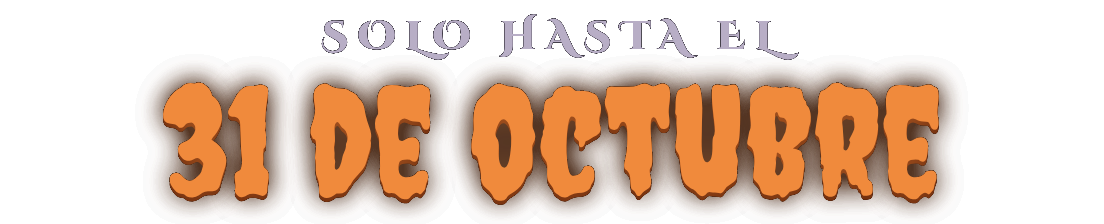
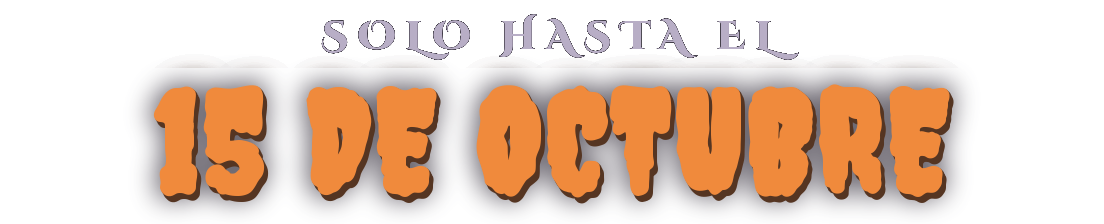
Halloween: hero recortado, CTAs temáticos y fecha límite 15 de octubre
Claude-Session: https://claude.ai/code/session_01MqDAfXyhHJKqD1usqaKAXc

Changed region(s): [[0.1232, 0.3125, 0.8931, 0.9375]]

diff --git a/assets/halloween/email.html b/assets/halloween/email.html
@@ -127,7 +127,7 @@ u + #body a { color:inherit; text-decoration:none; }
 </tr></table>
 </td></tr>
 <tr><td style="padding:16px 0 0 0; line-height:0; font-size:0;">
-<a href="https://www.elcorteingles.es" style="display:block;"><img src="eci-hero.gif" width="600" height="410" class="fluid" alt="Ilustración animada: un castillo encantado en la colina bajo la luna llena, con la bandera de El Corte Inglés iluminada con luces LED, una bruja volando, murciélagos y una calabaza gigante encendida" style="width:100%; max-width:600px; height:auto; display:block; background-color:#151536; font-family:'Manrope',-apple-system,'Segoe UI',Helvetica,Arial,sans-serif; font-size:14px; line-height:20px; color:#F3EBDD;"></a>
+<a href="https://www.elcorteingles.es" style="display:block;"><img src="eci-hero-recorte.gif?v=1" width="600" height="292" class="fluid" alt="Ilustración animada: un castillo encantado en la colina bajo la luna llena, con la bandera de El Corte Inglés iluminada con luces LED, una bruja volando, murciélagos y una calabaza gigante encendida" style="width:100%; max-width:600px; height:auto; display:block; background-color:#151536; font-family:'Manrope',-apple-system,'Segoe UI',Helvetica,Arial,sans-serif; font-size:14px; line-height:20px; color:#F3EBDD;"></a>
 </td></tr>
 <tr><td class="px" align="center" style="padding:8px 24px 0 24px;">
 <img class="a1 fluid" src="t-hero.png?v=4" width="552" height="123" alt="Halloween ha llegado a El Corte Inglés" style="width:100%; max-width:552px; height:auto; display:block; font-family:Georgia,serif; font-size:30px; line-height:36px; font-weight:bold; color:#F08A3C; text-align:center;">
@@ -150,8 +150,8 @@ u + #body a { color:inherit; text-decoration:none; }
 <p style="margin:0 0 10px 0; font-family:'Manrope',-apple-system,'Segoe UI',Helvetica,Arial,sans-serif; font-size:26px; line-height:31px; font-weight:800; letter-spacing:-.6px; color:#F3EBDD;">Bote de vidrio bruja</p>
 <p style="margin:0 0 18px 0; font-family:'Manrope',-apple-system,'Segoe UI',Helvetica,Arial,sans-serif; font-size:15px; line-height:23px; color:#D9CFE6;">Bote de vidrio decorado con estrellas y fantasmas y una tapa con forma de sombrero de bruja. Para llenarlo de caramelos o lucirlo en la estantería.</p>
 <p style="margin:0 0 18px 0; font-family:'Manrope',-apple-system,'Segoe UI',Helvetica,Arial,sans-serif; font-size:26px; line-height:32px; font-weight:800; color:#F3EBDD;">12,90 €</p>
-<!--[if mso]><v:roundrect xmlns:v="urn:schemas-microsoft-com:vml" xmlns:w="urn:schemas-microsoft-com:office:word" href="https://www.elcorteingles.es/hogar/A201385088-2102687446992-pr-bote-de-vidrio-bruja-halloween-multicolor/" style="height:52px; v-text-anchor:middle; width:170px;" arcsize="50%" stroke="f" fillcolor="#F3EBDD"><w:anchorlock/><center style="color:#16141A; font-family:Arial,sans-serif; font-size:16px; font-weight:bold;">Ver producto</center></v:roundrect><![endif]-->
-<!--[if !mso]><!--><a href="https://www.elcorteingles.es/hogar/A201385088-2102687446992-pr-bote-de-vidrio-bruja-halloween-multicolor/" class="cta-a" style="display:inline-block; background-color:#F3EBDD; color:#16141A; font-family:'Manrope',-apple-system,'Segoe UI',Helvetica,Arial,sans-serif; font-size:16px; line-height:52px; font-weight:700; text-align:center; padding:0 32px; border-radius:999px; white-space:nowrap;">Ver producto</a><!--<![endif]-->
+<!--[if mso]><v:roundrect xmlns:v="urn:schemas-microsoft-com:vml" xmlns:w="urn:schemas-microsoft-com:office:word" href="https://www.elcorteingles.es/hogar/A201385088-2102687446992-pr-bote-de-vidrio-bruja-halloween-multicolor/" style="height:52px; v-text-anchor:middle; width:170px;" arcsize="50%" stroke="f" fillcolor="#F3EBDD"><w:anchorlock/><center style="color:#16141A; font-family:Arial,sans-serif; font-size:16px; font-weight:bold;">Hechízate</center></v:roundrect><![endif]-->
+<!--[if !mso]><!--><a href="https://www.elcorteingles.es/hogar/A201385088-2102687446992-pr-bote-de-vidrio-bruja-halloween-multicolor/" class="cta-a" style="display:inline-block; background-color:#F3EBDD; color:#16141A; font-family:'Manrope',-apple-system,'Segoe UI',Helvetica,Arial,sans-serif; font-size:16px; line-height:52px; font-weight:700; text-align:center; padding:0 32px; border-radius:999px; white-space:nowrap;">Hechízate</a><!--<![endif]-->
 </td>
 </tr></table>
 </td></tr>
@@ -168,7 +168,7 @@ u + #body a { color:inherit; text-decoration:none; }
 <table role="presentation" cellpadding="0" cellspacing="0" border="0"><tr><td style="background-color:#3A2850; border-radius:999px; padding:4px 10px; font-family:'Manrope',-apple-system,'Segoe UI',Helvetica,Arial,sans-serif; font-size:11px; line-height:14px; font-weight:700; color:#F3EBDD;">Novedad</td></tr></table>
 <p class="t-cream" style="margin:12px 0 4px 0; font-family:'Manrope',-apple-system,'Segoe UI',Helvetica,Arial,sans-serif; font-size:16px; line-height:22px; font-weight:600; color:#F3EBDD;">LEGO Camioneta Jack-o'-Lantern</p>
 <p style="margin:0 0 16px 0; font-family:'Manrope',-apple-system,'Segoe UI',Helvetica,Arial,sans-serif; font-size:18px; line-height:24px; font-weight:700; color:#F08A3C;">14,99 €</p>
-<a href="https://www.elcorteingles.es/juguetes/A201013264-juego-de-construccion-jack-o-lantern-pickup-truck-lego-seasons-and-occasion-40822/" class="btn-a t-cream" style="display:inline-block; border:1px solid #F08A3C; border-radius:999px; padding:9px 20px; font-family:'Manrope',-apple-system,'Segoe UI',Helvetica,Arial,sans-serif; font-size:14px; line-height:18px; font-weight:700; color:#F3EBDD;">Comprar</a>
+<a href="https://www.elcorteingles.es/juguetes/A201013264-juego-de-construccion-jack-o-lantern-pickup-truck-lego-seasons-and-occasion-40822/" class="btn-a t-cream" style="display:inline-block; border:1px solid #F08A3C; border-radius:999px; padding:9px 20px; font-family:'Manrope',-apple-system,'Segoe UI',Helvetica,Arial,sans-serif; font-size:14px; line-height:18px; font-weight:700; color:#F3EBDD;">Truco o trato</a>
 </td></tr></table>
 </div></div>
 <!--[if mso]></td><td width="284" valign="top"><![endif]-->
@@ -182,7 +182,7 @@ u + #body a { color:inherit; text-decoration:none; }
 <table role="presentation" cellpadding="0" cellspacing="0" border="0"><tr><td style="background-color:#F08A3C; border-radius:999px; padding:4px 10px; font-family:'Manrope',-apple-system,'Segoe UI',Helvetica,Arial,sans-serif; font-size:11px; line-height:14px; font-weight:700; color:#16141A;">-30%</td></tr></table>
 <p class="t-cream" style="margin:12px 0 4px 0; font-family:'Manrope',-apple-system,'Segoe UI',Helvetica,Arial,sans-serif; font-size:16px; line-height:22px; font-weight:600; color:#F3EBDD;">Halloween Eau de Toilette</p>
 <p style="margin:0 0 6px 0; font-family:'Manrope',-apple-system,'Segoe UI',Helvetica,Arial,sans-serif; font-size:18px; line-height:24px; font-weight:700; color:#F08A3C;">26,95 € <span style="font-size:14px; font-weight:500; color:#8F86A0; text-decoration:line-through;">38,50 €</span></p><p style="margin:0 0 16px 0; font-family:'Manrope',-apple-system,'Segoe UI',Helvetica,Arial,sans-serif; font-size:12px; line-height:17px; color:#B8AEC6;">30 ml · <strong style="color:#F08A3C;">10% extra</strong> con el cupón de abajo</p>
-<a href="https://www.elcorteingles.es/perfumeria/A16575866-8431754340616-pr-eau-de-toilette-halloween-halloween-perfumes-30-ml/" class="btn-a t-cream" style="display:inline-block; border:1px solid #F08A3C; border-radius:999px; padding:9px 20px; font-family:'Manrope',-apple-system,'Segoe UI',Helvetica,Arial,sans-serif; font-size:14px; line-height:18px; font-weight:700; color:#F3EBDD;">Comprar</a>
+<a href="https://www.elcorteingles.es/perfumeria/A16575866-8431754340616-pr-eau-de-toilette-halloween-halloween-perfumes-30-ml/" class="btn-a t-cream" style="display:inline-block; border:1px solid #F08A3C; border-radius:999px; padding:9px 20px; font-family:'Manrope',-apple-system,'Segoe UI',Helvetica,Arial,sans-serif; font-size:14px; line-height:18px; font-weight:700; color:#F3EBDD;">Truco o trato</a>
 </td></tr></table>
 </div></div>
 <!--[if mso]></td></tr></table><![endif]-->
@@ -197,7 +197,7 @@ u + #body a { color:inherit; text-decoration:none; }
 <table role="presentation" cellpadding="0" cellspacing="0" border="0"><tr><td style="background-color:#3A2850; border-radius:999px; padding:4px 10px; font-family:'Manrope',-apple-system,'Segoe UI',Helvetica,Arial,sans-serif; font-size:11px; line-height:14px; font-weight:700; color:#F3EBDD;">Novedad</td></tr></table>
 <p class="t-cream" style="margin:12px 0 4px 0; font-family:'Manrope',-apple-system,'Segoe UI',Helvetica,Arial,sans-serif; font-size:16px; line-height:22px; font-weight:600; color:#F3EBDD;">Playmobil Pareja de vampiros</p>
 <p style="margin:0 0 16px 0; font-family:'Manrope',-apple-system,'Segoe UI',Helvetica,Arial,sans-serif; font-size:18px; line-height:24px; font-weight:700; color:#F08A3C;">15,87 €</p>
-<a href="https://www.elcorteingles.es/juguetes/A202084232-pareja-de-vampiros-playmobil-halloween/" class="btn-a t-cream" style="display:inline-block; border:1px solid #F08A3C; border-radius:999px; padding:9px 20px; font-family:'Manrope',-apple-system,'Segoe UI',Helvetica,Arial,sans-serif; font-size:14px; line-height:18px; font-weight:700; color:#F3EBDD;">Comprar</a>
+<a href="https://www.elcorteingles.es/juguetes/A202084232-pareja-de-vampiros-playmobil-halloween/" class="btn-a t-cream" style="display:inline-block; border:1px solid #F08A3C; border-radius:999px; padding:9px 20px; font-family:'Manrope',-apple-system,'Segoe UI',Helvetica,Arial,sans-serif; font-size:14px; line-height:18px; font-weight:700; color:#F3EBDD;">Truco o trato</a>
 </td></tr></table>
 </div></div>
 <!--[if mso]></td><td width="284" valign="top"><![endif]-->
@@ -211,7 +211,7 @@ u + #body a { color:inherit; text-decoration:none; }
 <table role="presentation" cellpadding="0" cellspacing="0" border="0"><tr><td style="background-color:#F08A3C; border-radius:999px; padding:4px 10px; font-family:'Manrope',-apple-system,'Segoe UI',Helvetica,Arial,sans-serif; font-size:11px; line-height:14px; font-weight:700; color:#16141A;">-25%</td></tr></table>
 <p class="t-cream" style="margin:12px 0 4px 0; font-family:'Manrope',-apple-system,'Segoe UI',Helvetica,Arial,sans-serif; font-size:16px; line-height:22px; font-weight:600; color:#F3EBDD;">Playmobil Fantasma de Halloween</p>
 <p style="margin:0 0 16px 0; font-family:'Manrope',-apple-system,'Segoe UI',Helvetica,Arial,sans-serif; font-size:18px; line-height:24px; font-weight:700; color:#F08A3C;">4,50 € <span style="font-size:14px; font-weight:500; color:#8F86A0; text-decoration:line-through;">6,00 €</span></p>
-<a href="https://www.elcorteingles.es/juguetes/A202084233-fantasma-playmobil-halloween/" class="btn-a t-cream" style="display:inline-block; border:1px solid #F08A3C; border-radius:999px; padding:9px 20px; font-family:'Manrope',-apple-system,'Segoe UI',Helvetica,Arial,sans-serif; font-size:14px; line-height:18px; font-weight:700; color:#F3EBDD;">Comprar</a>
+<a href="https://www.elcorteingles.es/juguetes/A202084233-fantasma-playmobil-halloween/" class="btn-a t-cream" style="display:inline-block; border:1px solid #F08A3C; border-radius:999px; padding:9px 20px; font-family:'Manrope',-apple-system,'Segoe UI',Helvetica,Arial,sans-serif; font-size:14px; line-height:18px; font-weight:700; color:#F3EBDD;">Truco o trato</a>
 </td></tr></table>
 </div></div>
 <!--[if mso]></td></tr></table><![endif]-->
@@ -226,7 +226,7 @@ u + #body a { color:inherit; text-decoration:none; }
 <table role="presentation" cellpadding="0" cellspacing="0" border="0"><tr><td style="background-color:#3A2850; border-radius:999px; padding:4px 10px; font-family:'Manrope',-apple-system,'Segoe UI',Helvetica,Arial,sans-serif; font-size:11px; line-height:14px; font-weight:700; color:#F3EBDD;">Novedad</td></tr></table>
 <p class="t-cream" style="margin:12px 0 4px 0; font-family:'Manrope',-apple-system,'Segoe UI',Helvetica,Arial,sans-serif; font-size:16px; line-height:22px; font-weight:600; color:#F3EBDD;">Bote de vidrio calabaza</p>
 <p style="margin:0 0 16px 0; font-family:'Manrope',-apple-system,'Segoe UI',Helvetica,Arial,sans-serif; font-size:18px; line-height:24px; font-weight:700; color:#F08A3C;">10,99 €</p>
-<a href="https://www.elcorteingles.es/hogar/A201385087-2102687446985-pr-bote-de-vidrio-calabaza-halloween-naranja/" class="btn-a t-cream" style="display:inline-block; border:1px solid #F08A3C; border-radius:999px; padding:9px 20px; font-family:'Manrope',-apple-system,'Segoe UI',Helvetica,Arial,sans-serif; font-size:14px; line-height:18px; font-weight:700; color:#F3EBDD;">Comprar</a>
+<a href="https://www.elcorteingles.es/hogar/A201385087-2102687446985-pr-bote-de-vidrio-calabaza-halloween-naranja/" class="btn-a t-cream" style="display:inline-block; border:1px solid #F08A3C; border-radius:999px; padding:9px 20px; font-family:'Manrope',-apple-system,'Segoe UI',Helvetica,Arial,sans-serif; font-size:14px; line-height:18px; font-weight:700; color:#F3EBDD;">Truco o trato</a>
 </td></tr></table>
 </div></div>
 <!--[if mso]></td><td width="284" valign="top"><![endif]-->
@@ -240,19 +240,19 @@ u + #body a { color:inherit; text-decoration:none; }
 <table role="presentation" cellpadding="0" cellspacing="0" border="0"><tr><td style="background-color:#3A2850; border-radius:999px; padding:4px 10px; font-family:'Manrope',-apple-system,'Segoe UI',Helvetica,Arial,sans-serif; font-size:11px; line-height:14px; font-weight:700; color:#F3EBDD;">Novedad</td></tr></table>
 <p class="t-cream" style="margin:12px 0 4px 0; font-family:'Manrope',-apple-system,'Segoe UI',Helvetica,Arial,sans-serif; font-size:16px; line-height:22px; font-weight:600; color:#F3EBDD;">Bote de cerámica calabaza</p>
 <p style="margin:0 0 6px 0; font-family:'Manrope',-apple-system,'Segoe UI',Helvetica,Arial,sans-serif; font-size:18px; line-height:24px; font-weight:700; color:#F08A3C;">desde 26,95 €</p><p style="margin:0 0 16px 0; font-family:'Manrope',-apple-system,'Segoe UI',Helvetica,Arial,sans-serif; font-size:12px; line-height:17px; color:#B8AEC6;">2 tamaños: 20,5 cm · 26,95 €<br>25,5 cm · 29,95 €</p>
-<a href="https://www.elcorteingles.es/hogar/A201384929-2102687446862-pr-bote-de-ceramica-calabaza-halloween-beige/" class="btn-a t-cream" style="display:inline-block; border:1px solid #F08A3C; border-radius:999px; padding:9px 20px; font-family:'Manrope',-apple-system,'Segoe UI',Helvetica,Arial,sans-serif; font-size:14px; line-height:18px; font-weight:700; color:#F3EBDD;">Comprar</a>
+<a href="https://www.elcorteingles.es/hogar/A201384929-2102687446862-pr-bote-de-ceramica-calabaza-halloween-beige/" class="btn-a t-cream" style="display:inline-block; border:1px solid #F08A3C; border-radius:999px; padding:9px 20px; font-family:'Manrope',-apple-system,'Segoe UI',Helvetica,Arial,sans-serif; font-size:14px; line-height:18px; font-weight:700; color:#F3EBDD;">Truco o trato</a>
 </td></tr></table>
 </div></div>
 <!--[if mso]></td></tr></table><![endif]-->
 </td></tr>
 <tr><td class="px" style="padding:44px 24px 6px 24px;"><img class="fluid" src="t-disfraces.png?v=4" width="552" height="59" alt="Elige tu disfraz" style="width:100%; max-width:552px; height:auto; display:block; font-family:Georgia,serif; font-size:28px; font-weight:bold; color:#F08A3C;"></td></tr>
-<tr><td class="px" style="padding:0 24px 0 24px;"><p class="t-mist" style="margin:0 0 14px 0; font-family:'Manrope',-apple-system,'Segoe UI',Helvetica,Arial,sans-serif; font-size:15px; line-height:23px; color:#B8AEC6;">Toca una pegatina para ver el producto.</p></td></tr>
+<tr><td class="px" style="padding:0 24px 0 24px;"><p class="t-mist" style="margin:0 0 14px 0; font-family:'Manrope',-apple-system,'Segoe UI',Helvetica,Arial,sans-serif; font-size:15px; line-height:23px; color:#B8AEC6;">Transfórmate en una leyenda</p></td></tr>
 <tr><td class="px" style="padding:0 24px;">
 <table role="presentation" width="100%" cellpadding="0" cellspacing="0" border="0" style="background-color:#221b33; border-radius:20px; border:2px dashed #3d3354;"><tr><td align="center" style="padding:16px 4px 8px 4px; font-size:0; text-align:center;">
 <div class="stk-col" style="display:inline-block; width:100%; max-width:132px; vertical-align:top;">
 <a class="stk" href="https://www.elcorteingles.es/hogar/A201385088-2102687446992-pr-bote-de-vidrio-bruja-halloween-multicolor/" style="display:block; padding:6px 4px 14px 4px; text-decoration:none;"><img src="pegatina-bote.png?v=3" width="124" height="141" alt="Pegatina del bote de cristal con tapa de sombrero de bruja" style="width:100%; max-width:124px; height:auto; display:block; margin:0 auto; font-family:'Manrope',-apple-system,'Segoe UI',Helvetica,Arial,sans-serif; font-size:13px; color:#B8AEC6;">
 <span style="display:block; margin-top:6px; font-family:'Manrope',-apple-system,'Segoe UI',Helvetica,Arial,sans-serif; font-size:14px; line-height:19px; font-weight:700; color:#F3EBDD; text-align:center;">Bote de bruja</span>
-<span style="display:block; font-family:'Manrope',-apple-system,'Segoe UI',Helvetica,Arial,sans-serif; font-size:13px; line-height:18px; font-weight:700; color:#F08A3C; text-align:center;">Ver producto</span></a>
+<span style="display:block; font-family:'Manrope',-apple-system,'Segoe UI',Helvetica,Arial,sans-serif; font-size:13px; line-height:18px; font-weight:700; color:#F08A3C; text-align:center;">Ver caldero</span></a>
 </div>
 <div class="stk-col" style="display:inline-block; width:100%; max-width:132px; vertical-align:top;">
 <a class="stk" href="https://www.elcorteingles.es/juguetes/A52095480-disfraz-infantil-fantasma-encadenado-rubies/" style="display:block; padding:6px 4px 14px 4px; text-decoration:none;"><img src="pegatina-fantasma.png?v=3" width="124" height="141" alt="Pegatina de un fantasma sonriente sacando la lengua" style="width:100%; max-width:124px; height:auto; display:block; margin:0 auto; font-family:'Manrope',-apple-system,'Segoe UI',Helvetica,Arial,sans-serif; font-size:13px; color:#B8AEC6;">
@@ -277,7 +277,7 @@ u + #body a { color:inherit; text-decoration:none; }
 <div class="stk-col" style="display:inline-block; width:100%; max-width:132px; vertical-align:top;">
 <a class="stk" href="https://www.elcorteingles.es/hogar/A201385087-2102687446985-pr-bote-de-vidrio-calabaza-halloween-naranja/" style="display:block; padding:6px 4px 14px 4px; text-decoration:none;"><img src="pegatina-calabaza.png?v=3" width="124" height="141" alt="Pegatina de una calabaza de Halloween" style="width:100%; max-width:124px; height:auto; display:block; margin:0 auto; font-family:'Manrope',-apple-system,'Segoe UI',Helvetica,Arial,sans-serif; font-size:13px; color:#B8AEC6;">
 <span style="display:block; margin-top:6px; font-family:'Manrope',-apple-system,'Segoe UI',Helvetica,Arial,sans-serif; font-size:14px; line-height:19px; font-weight:700; color:#F3EBDD; text-align:center;">Calabaza</span>
-<span style="display:block; font-family:'Manrope',-apple-system,'Segoe UI',Helvetica,Arial,sans-serif; font-size:13px; line-height:18px; font-weight:700; color:#F08A3C; text-align:center;">Ver producto</span></a>
+<span style="display:block; font-family:'Manrope',-apple-system,'Segoe UI',Helvetica,Arial,sans-serif; font-size:13px; line-height:18px; font-weight:700; color:#F08A3C; text-align:center;">Ver caldero</span></a>
 </div>
 <div class="stk-col" style="display:inline-block; width:100%; max-width:132px; vertical-align:top;">
 <a class="stk" href="https://www.elcorteingles.es/moda-infantil/A58146244-gris-pr-pelele-largo-de-punto-estampado-fantasia-halloween-de-bebe/" style="display:block; padding:6px 4px 14px 4px; text-decoration:none;"><img src="pegatina-esqueleto.png?v=3" width="124" height="141" alt="Pegatina de un esqueleto con sombrero de copa saludando" style="width:100%; max-width:124px; height:auto; display:block; margin:0 auto; font-family:'Manrope',-apple-system,'Segoe UI',Helvetica,Arial,sans-serif; font-size:13px; color:#B8AEC6;">
@@ -312,7 +312,7 @@ u + #body a { color:inherit; text-decoration:none; }
 </td></tr></table>
 </td></tr>
 <tr><td style="padding:44px 24px 0 24px; line-height:0; font-size:0;"><img src="murcielagos.gif?v=4" width="552" height="90" class="fluid" alt="" role="presentation" style="width:100%; max-width:552px; height:auto; display:block;"></td></tr>
-<tr><td class="px" align="center" style="padding:16px 24px 0 24px;"><img class="fluid" src="t-urgencia.png?v=4" width="552" height="109" alt="Solo hasta el 31 de octubre" style="width:100%; max-width:552px; height:auto; display:block; font-family:Georgia,serif; font-size:30px; font-weight:bold; color:#F08A3C; text-align:center;"></td></tr>
+<tr><td class="px" align="center" style="padding:16px 24px 0 24px;"><img class="fluid" src="t-urgencia.png?v=5" width="552" height="109" alt="Solo hasta el 15 de octubre" style="width:100%; max-width:552px; height:auto; display:block; font-family:Georgia,serif; font-size:30px; font-weight:bold; color:#F08A3C; text-align:center;"></td></tr>
 <tr><td class="px" align="center" style="padding:14px 40px 0 40px; text-align:center;">
 <p class="t-mist" style="margin:0; font-family:'Manrope',-apple-system,'Segoe UI',Helvetica,Arial,sans-serif; font-size:16px; line-height:25px; color:#B8AEC6;">Envío gratis en pedidos desde 50 €. Recogida en tienda en 2 horas.</p>
 </td></tr>
